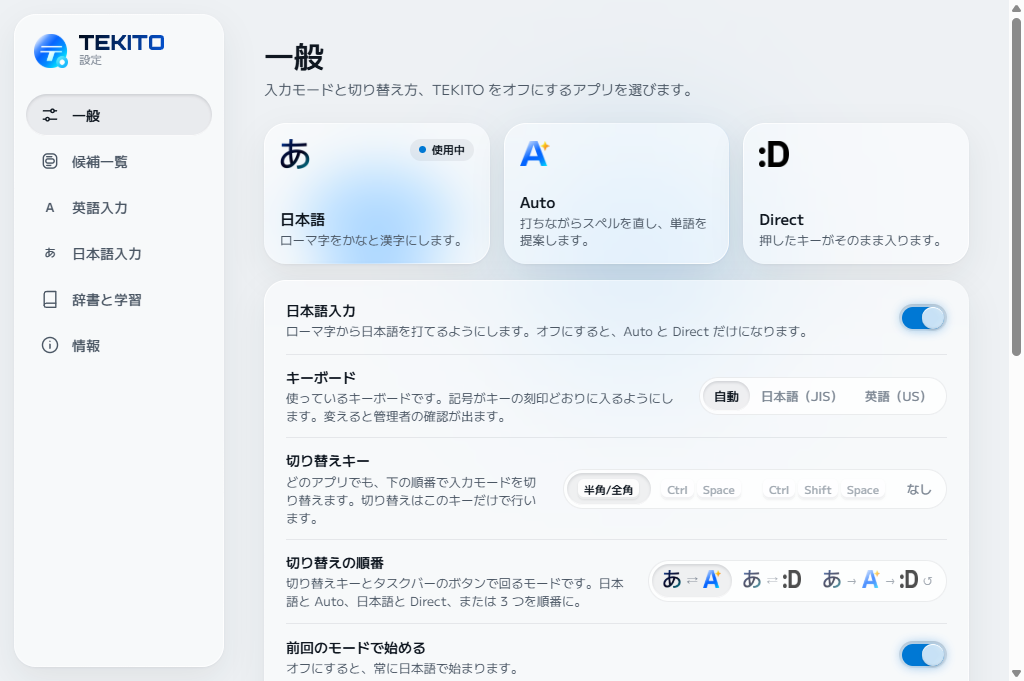
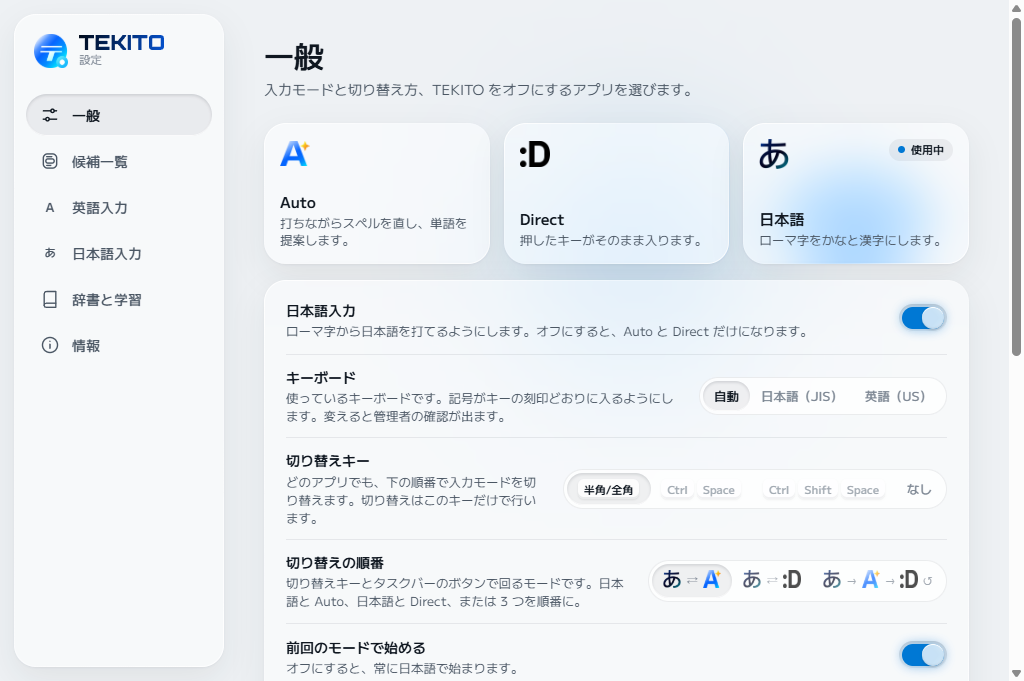
Put English first: TEKITO is English input with Japanese added
TEKITO began as English input and Japanese is the addition, so the
descriptions now say "English and Japanese" and list English first: the
README taglines and sections (typing English, then Japanese, with the
English demo at the top), the Settings About tagline, the setup program's
welcome page, and the order of the modes in Settings and the taskbar menu
(Auto, Direct, then 日本語). The Settings shots are taken again.

The license agreement's scope and privacy lines now name the Japanese
data the setup program downloads and Japanese conversion.

verify-installed.ps1 accepted TEKITO only in the English keyboard list and
failed packs without an index file, so a Japanese installation always
looked broken. It now accepts either list, checks packs without an index,
and requires japanese-core and japanese-romaji when Japanese is installed.

diff --git a/apps/tekito-settings/ui/src/i18n.js b/apps/tekito-settings/ui/src/i18n.js
@@ -188,7 +188,7 @@ const en = {
   },
 
   about: {
-    tagline: "Japanese and English input for Windows.",
+    tagline: "English and Japanese input for Windows.",
     version: "Version",
     inputMethod: "Input method",
     installed: "Installed and registered with Windows.",
@@ -398,7 +398,7 @@ const ja = {
   },
 
   about: {
-    tagline: "Windows で日本語と英語を打つための入力方式。",
+    tagline: "Windows で英語と日本語を打つための入力方式。",
     version: "バージョン",
     inputMethod: "入力方式",
     installed: "インストールされ、Windows に登録されています。",

diff --git a/apps/tekito-settings/ui/src/main.jsx b/apps/tekito-settings/ui/src/main.jsx
@@ -321,7 +321,7 @@ function GeneralPage({ mode, japanese, japaneseInstalled, japaneseKeyboard, sett
   const languages = [[0, t.language.system], [1, "English"], [2, "日本語"]];
   const keyboards = [[0, t.keyboard.detect], [1, t.keyboard.japanese], [2, t.keyboard.us]];
   // Japanese is a mode only when it is installed.
-  const modes = japanese ? ["japanese", "auto", "direct"] : ["auto", "direct"];
+  const modes = japanese ? ["auto", "direct", "japanese"] : ["auto", "direct"];
   const switchKey = switchKeyCaps(settings.toggleKey, japaneseKeyboard);
   return (
     <>

diff --git a/src/Tsf/ModeLangBarItem.cpp b/src/Tsf/ModeLangBarItem.cpp
@@ -122,11 +122,11 @@ void ModeLangBarItem::ShowContextMenu(POINT point) {
     const auto flags = [this](InputMode mode) {
         return MF_STRING | (Mode() == mode ? MF_CHECKED : 0);
     };
+    AppendMenuW(menu, flags(InputMode::Convert), kMenuAuto, L"Auto");
+    AppendMenuW(menu, flags(InputMode::Direct), kMenuDirect, L"Direct");
     if (JapaneseProfile()) {
         AppendMenuW(menu, flags(InputMode::Japanese), kMenuJapanese, Text(L"Japanese", L"日本語"));
     }
-    AppendMenuW(menu, flags(InputMode::Convert), kMenuAuto, L"Auto");
-    AppendMenuW(menu, flags(InputMode::Direct), kMenuDirect, L"Direct");
     AppendMenuW(menu, MF_SEPARATOR, 0, nullptr);
     AppendMenuW(menu, MF_STRING, kMenuSettings, Text(L"Settings...", L"設定..."));
 
@@ -148,15 +148,14 @@ HRESULT ModeLangBarItem::InitMenu(ITfMenu* menu) {
     const auto checked = [mode](InputMode item) {
         return mode == item ? static_cast<DWORD>(TF_LBMENUF_RADIOCHECKED) : 0;
     };
-    HRESULT hr = S_OK;
+    HRESULT hr = addItem(kMenuAuto, checked(InputMode::Convert), L"Auto");
+    if (FAILED(hr)) return hr;
+    hr = addItem(kMenuDirect, checked(InputMode::Direct), L"Direct");
+    if (FAILED(hr)) return hr;
     if (JapaneseProfile()) {
         hr = addItem(kMenuJapanese, checked(InputMode::Japanese), Text(L"Japanese", L"日本語"));
         if (FAILED(hr)) return hr;
     }
-    hr = addItem(kMenuAuto, checked(InputMode::Convert), L"Auto");
-    if (FAILED(hr)) return hr;
-    hr = addItem(kMenuDirect, checked(InputMode::Direct), L"Direct");
-    if (FAILED(hr)) return hr;
     hr = addItem(0, TF_LBMENUF_SEPARATOR, nullptr);
     if (FAILED(hr)) return hr;
     return addItem(kMenuSettings, 0, Text(L"Settings...", L"設定..."));

diff --git a/installer/TekitoSetup.cpp b/installer/TekitoSetup.cpp
@@ -920,12 +920,12 @@ void Paint(Wizard& wizard) {
     case Screen::Welcome:
         DrawLogo(wizard, kMargin, 42.0f, 60.0f);
         DrawWordmark(wizard, kMargin + 78.0f, 58.0f);
-        DrawText(wizard, Tr(L"Japanese and English input for Windows", L"日本語と英語を打つための入力方式"), wizard.title.Get(),
+        DrawText(wizard, Tr(L"English and Japanese input for Windows", L"英語と日本語を打つための入力方式"), wizard.title.Get(),
                  D2D1::RectF(kMargin, 128.0f, kWidth - kMargin, 164.0f), p.ink);
         DrawText(wizard,
-                 Tr(L"TEKITO turns romaji into Japanese and fixes English typos as you type. Everything runs on "
+                 Tr(L"TEKITO fixes English typos as you type, and turns romaji into Japanese. Everything runs on "
                     L"this PC, and nothing you type is ever sent anywhere.",
-                    L"TEKITO はローマ字を日本語にし、英語の打ち間違いを直します。処理はすべてこの PC の中で行われ、"
+                    L"TEKITO は英語の打ち間違いを直し、ローマ字を日本語にします。処理はすべてこの PC の中で行われ、"
                     L"入力した内容がどこかに送られることはありません。"),
                  wizard.body.Get(), D2D1::RectF(kMargin, 170.0f, kMargin + bodyWidth, 214.0f), p.ink2);
         if (wizard.webViewReady) {

diff --git a/README_JP.md b/README_JP.md
@@ -6,8 +6,8 @@
 </p>
 
 <p align="center">
-  Windows で日本語と英語を打つための入力方式。<br>
-  ローマ字は文全体を見て日本語に、英語の打ち間違いは Space で直ります。<br>
+  Windows で英語と日本語を打つための入力方式。<br>
+  英語の打ち間違いは Space で直り、ローマ字は文全体を見て日本語になります。<br>
   打ったとおりでいいときは何もしません。
 </p>
 
@@ -19,10 +19,10 @@
 </p>
 
 <p align="center">
-  <img src="docs/images/japanese-demo-ja.png" alt="「はじめまして」のつもりで「hahimemasite」と打ち間違えた例。Space で打ったとおりに変換され、もう一度 Space を押すと候補に「もしかして」付きで「はじめまして」が出て、横に意味が表示される。続けて「kyouhaiitenkidesune.」が「今日はいい天気ですね。」になる" width="580">
+  <img src="docs/images/typing-demo-ja.png" alt="「thnaks for teh reveiw.」と打つと、単語ごとに候補リストが出て、Space で打ち間違いが直り、「thanks for the review.」になる様子" width="717">
 </p>
 
-TEKITO は IME（TSF のテキストサービス）なので、普通の Windows アプリでそのまま使えます。ひとつの入力方式で日本語と英語の両方を打てます。ローマ字はかなと漢字に、英語は打ちながらスペルを直します。処理はすべて PC の中で完結します。
+TEKITO は IME（TSF のテキストサービス）なので、普通の Windows アプリでそのまま使えます。ひとつの入力方式で英語と日本語の両方を打てます。英語は打ちながらスペルを直し、日本語を追加すればローマ字をかなと漢字にします。処理はすべて PC の中で完結します。
 
 > TEKITO はプレビュー版です。動作を確認しているのはメモ帳のみです。ほかのアプリの状況は[互換性メモ](docs/compatibility.md)にあります。
 
@@ -31,16 +31,6 @@ TEKITO は IME（TSF のテキストサービス）なので、普通の Windows
 タスクバーのボタンが今のモードを表しています。クリックで切り替え、右クリックでモードを選べます。
 
 <table>
-  <tr>
-    <td width="72" align="center">
-      <picture>
-        <source media="(prefers-color-scheme: dark)" srcset="docs/images/mode-japanese-dark.png">
-        <img src="docs/images/mode-japanese-light.png" width="48" alt="">
-      </picture>
-    </td>
-    <td><b>日本語</b><br>ローマ字をかなと漢字にします。</td>
-    <td><img src="docs/images/taskbar-japanese.png" width="216" alt="日本語のときのタスクバー"></td>
-  </tr>
   <tr>
     <td align="center"><img src="docs/images/mode-auto.png" width="48" alt=""></td>
     <td><b>Auto</b><br>英語のスペルを直し、打ちながら単語を提案します。</td>
@@ -56,15 +46,46 @@ TEKITO は IME（TSF のテキストサービス）なので、普通の Windows
     <td><b>Direct</b><br>押したキーがそのまま入ります。</td>
     <td><img src="docs/images/taskbar-direct.png" width="216" alt="Direct のときのタスクバー"></td>
   </tr>
+  <tr>
+    <td width="72" align="center">
+      <picture>
+        <source media="(prefers-color-scheme: dark)" srcset="docs/images/mode-japanese-dark.png">
+        <img src="docs/images/mode-japanese-light.png" width="48" alt="">
+      </picture>
+    </td>
+    <td><b>日本語</b><br>ローマ字をかなと漢字にします。</td>
+    <td><img src="docs/images/taskbar-japanese.png" width="216" alt="日本語のときのタスクバー"></td>
+  </tr>
 </table>
 
-切り替えキーは、日本語キーボードなら半角/全角、US キーボードなら Alt+` です（Ctrl+Space、Ctrl+Shift+Space、なしも選べます）。切り替えの順番は「日本語 ⇄ Auto」「日本語 ⇄ Direct」「日本語 → Auto → Direct」から設定で選べます。日本語キーボードでは、変換キーで日本語、無変換キーで英語、ひらがなキーでひらがなの日本語（Shift でカタカナ）になります。
+切り替えキーは、日本語キーボードなら半角/全角、US キーボードなら Alt+` です（Ctrl+Space、Ctrl+Shift+Space、なしも選べます）。日本語を追加すると、切り替えの順番を「日本語 ⇄ Auto」「日本語 ⇄ Direct」「日本語 → Auto → Direct」から設定で選べます。日本語キーボードでは、変換キーで日本語、無変換キーで英語、ひらがなキーでひらがなの日本語（Shift でカタカナ）になります。
 
 日本語入力は追加するかどうかを選べます。入れていないとき、または設定でオフにしたときは、Auto と Direct だけになります。ターミナル、管理者として実行中のアプリ、設定で追加したアプリでは、TEKITO はオフになります。
 
+## 英語を打つ
+
+Auto で普段どおりに打ちます。入力中の単語に下線が付き、その下に候補が出ます。
+
+| キー | 動作 |
+| --- | --- |
+| Space | 確信のある補正を適用してスペースを入れます。続けて押すと候補を順に送ります。 |
+| Shift+Space | ひとつ前の候補に戻ります。 |
+| Tab、↑、↓ | 確定せずに候補を移動します。 |
+| Backspace | 補正の直後なら、打ったとおりに戻します。 |
+| Esc | 打ったとおりにします。 |
+| Enter | 候補を選んでいるときはその候補で確定します。それ以外は普通の改行です。 |
+
+次の文字を打った時点で単語は確定するので、あとから取り消す操作はありません。知っている単語、「brb」のようなチャットの略語、自分で大文字にして打った語、コードらしい文字列、URL やアドレス、パスワード・数字・メール用の欄には手を出しません。
+
+![TEKITO の候補リスト。グラスとシンプル、ライトとダーク。選んでいる語の意味が横に出る](docs/images/candidate-list-ja.png)
+
 ## 日本語を打つ
 
-ローマ字で打つと、下線付きのひらがなになります。Space で行全体を一度に変換して文節に分け、もう一度 Space を押すと、選んでいる文節の候補一覧が開きます。
+日本語を追加すると、日本語モードでローマ字を打てます。打つと、下線付きのひらがなになります。Space で行全体を一度に変換して文節に分け、もう一度 Space を押すと、選んでいる文節の候補一覧が開きます。
+
+<p align="center">
+  <img src="docs/images/japanese-demo-ja.png" alt="「はじめまして」のつもりで「hahimemasite」と打ち間違えた例。Space で打ったとおりに変換され、もう一度 Space を押すと候補に「もしかして」付きで「はじめまして」が出て、横に意味が表示される。続けて「kyouhaiitenkidesune.」が「今日はいい天気ですね。」になる" width="580">
+</p>
 
 | キー | 動作 |
 | --- | --- |
@@ -84,27 +105,6 @@ TEKITO は IME（TSF のテキストサービス）なので、普通の Windows
 - **候補の横に意味。** 意味のある候補には小さな本のマークが付き、選んでいる候補の意味が一覧の横に出ます。「初め」と「始め」の違いもその場でわかります。
 - **カタカナには英語も。** 外来語には英単語も候補に出します（ミーティング → meeting）。
 - **書き方を覚えます。** 読みに対して選んだ変換が、次から先に出ます。
-
-## 英語を打つ
-
-Auto で普段どおりに打ちます。入力中の単語に下線が付き、その下に候補が出ます。
-
-<p align="center">
-  <img src="docs/images/typing-demo-ja.png" alt="「thnaks for teh reveiw.」と打つと、単語ごとに候補リストが出て、Space で打ち間違いが直り、「thanks for the review.」になる様子" width="717">
-</p>
-
-| キー | 動作 |
-| --- | --- |
-| Space | 確信のある補正を適用してスペースを入れます。続けて押すと候補を順に送ります。 |
-| Shift+Space | ひとつ前の候補に戻ります。 |
-| Tab、↑、↓ | 確定せずに候補を移動します。 |
-| Backspace | 補正の直後なら、打ったとおりに戻します。 |
-| Esc | 打ったとおりにします。 |
-| Enter | 候補を選んでいるときはその候補で確定します。それ以外は普通の改行です。 |
-
-次の文字を打った時点で単語は確定するので、あとから取り消す操作はありません。知っている単語、「brb」のようなチャットの略語、自分で大文字にして打った語、コードらしい文字列、URL やアドレス、パスワード・数字・メール用の欄には手を出しません。
-
-![TEKITO の候補リスト。グラスとシンプル、ライトとダーク。選んでいる語の意味が横に出る](docs/images/candidate-list-ja.png)
 
 ## 設定
 

diff --git a/README.md b/README.md
@@ -6,8 +6,8 @@
 </p>
 
 <p align="center">
-  Japanese and English input for Windows.<br>
-  Romaji into Japanese that reads the whole sentence, English typos fixed on Space,<br>
+  English and Japanese input for Windows.<br>
+  English typos fixed on Space, romaji into Japanese that reads the whole sentence,<br>
   and nothing touched when you meant what you typed.
 </p>
 
@@ -19,13 +19,13 @@
 </p>
 
 <p align="center">
-  <img src="docs/images/japanese-demo.png" alt="Typing “hahimemasite”, a slip for はじめまして: Space converts what was typed, the second Space opens the list, where はじめまして waits marked もしかして with its meaning beside it; then “kyouhaiitenkidesune.” becomes 今日はいい天気ですね。" width="559">
+  <img src="docs/images/typing-demo.png" alt="Typing “thnaks for teh reveiw.” in a plain page: the candidate list appears under each word, Space fixes the typos, and the line ends up as “thanks for the review.”" width="717">
 </p>
 
 TEKITO is an input method (a TSF text service), so it works in ordinary
-Windows apps without plugins. One input method types both languages: romaji
-becomes kana and kanji, and English gets its spelling fixed as you go.
-Everything runs on your PC.
+Windows apps without plugins. One input method types both languages: English
+gets its spelling fixed as you go, and with Japanese added, romaji becomes
+kana and kanji. Everything runs on your PC.
 
 > TEKITO is a preview. It has been tested in Notepad; other apps are listed in
 > [the compatibility notes](docs/compatibility.md).
@@ -36,16 +36,6 @@ The button in the taskbar shows the mode. Click it to switch, or right-click
 to pick one.
 
 <table>
-  <tr>
-    <td width="72" align="center">
-      <picture>
-        <source media="(prefers-color-scheme: dark)" srcset="docs/images/mode-japanese-dark.png">
-        <img src="docs/images/mode-japanese-light.png" width="48" alt="">
-      </picture>
-    </td>
-    <td><b>日本語</b><br>Turns romaji into kana and kanji.</td>
-    <td><img src="docs/images/taskbar-japanese.png" width="216" alt="The taskbar with TEKITO in Japanese"></td>
-  </tr>
   <tr>
     <td align="center"><img src="docs/images/mode-auto.png" width="48" alt=""></td>
     <td><b>Auto</b><br>Corrects English spelling and suggests words as you type.</td>
@@ -61,11 +51,22 @@ to pick one.
     <td><b>Direct</b><br>Types exactly the keys you press.</td>
     <td><img src="docs/images/taskbar-direct.png" width="216" alt="The taskbar with TEKITO in Direct"></td>
   </tr>
+  <tr>
+    <td width="72" align="center">
+      <picture>
+        <source media="(prefers-color-scheme: dark)" srcset="docs/images/mode-japanese-dark.png">
+        <img src="docs/images/mode-japanese-light.png" width="48" alt="">
+      </picture>
+    </td>
+    <td><b>日本語</b><br>Turns romaji into kana and kanji.</td>
+    <td><img src="docs/images/taskbar-japanese.png" width="216" alt="The taskbar with TEKITO in Japanese"></td>
+  </tr>
 </table>
 
 The switch key is Hankaku/Zenkaku on a Japanese keyboard and Alt+` on a US
-one (or Ctrl+Space, Ctrl+Shift+Space, or none). It goes between Japanese and
-Auto, Japanese and Direct, or round all three, as you choose in Settings. On
+one (or Ctrl+Space, Ctrl+Shift+Space, or none). With Japanese, it goes
+between Japanese and Auto, Japanese and Direct, or round all three, as you
+choose in Settings. On
 a Japanese keyboard, Henkan switches to Japanese, Muhenkan to English, and
 Hiragana to Japanese in hiragana (katakana with Shift).
 
@@ -73,11 +74,37 @@ Japanese input is optional. Without it, or with it turned off in Settings,
 TEKITO has Auto and Direct only. It stays off in terminals, in apps running
 as administrator, and in any apps you list in Settings.
 
+## Typing English
+
+In Auto, type as usual. The word you are typing is underlined and a short
+list of choices appears under it.
+
+| Key | What it does |
+| --- | --- |
+| Space | Applies a confident correction and adds the space. Press again to step through the choices. |
+| Shift+Space | Goes back to the previous choice. |
+| Tab, ↑, ↓ | Moves through the list without committing. |
+| Backspace | Right after a correction, puts back what you typed. |
+| Esc | Keeps what you typed. |
+| Enter | Picks the highlighted choice when you are in the list; otherwise ends the line as usual. |
+
+Typing the next letter settles the word, so there is nothing to undo later.
+TEKITO leaves alone words it recognizes, chat abbreviations like “brb”,
+anything you capitalize yourself, anything that looks like code, URLs and
+addresses, and fields marked as passwords, numbers or email.
+
+![The TEKITO candidate list, glass and simple, in light and dark, with the meaning of the highlighted word beside it](docs/images/candidate-list.png)
+
 ## Typing Japanese
 
-Type romaji; it becomes hiragana as you type, underlined. Space converts the
+With Japanese added, type romaji in 日本語; it becomes hiragana as you
+type, underlined. Space converts the
 whole line at once, split into phrases, and a second Space opens the list
 for the phrase in focus.
+
+<p align="center">
+  <img src="docs/images/japanese-demo.png" alt="Typing “hahimemasite”, a slip for はじめまして: Space converts what was typed, the second Space opens the list, where はじめまして waits marked もしかして with its meaning beside it; then “kyouhaiitenkidesune.” becomes 今日はいい天気ですね。" width="559">
+</p>
 
 | Key | What it does |
 | --- | --- |
@@ -107,31 +134,6 @@ for the phrase in focus.
   (ミーティング → meeting).
 - **It learns your way of writing.** The conversion you pick for a reading
   comes first the next time.
-
-## Typing English
-
-In Auto, type as usual. The word you are typing is underlined and a short
-list of choices appears under it.
-
-<p align="center">
-  <img src="docs/images/typing-demo.png" alt="Typing “thnaks for teh reveiw.” in a plain page: the candidate list appears under each word, Space fixes the typos, and the line ends up as “thanks for the review.”" width="717">
-</p>
-
-| Key | What it does |
-| --- | --- |
-| Space | Applies a confident correction and adds the space. Press again to step through the choices. |
-| Shift+Space | Goes back to the previous choice. |
-| Tab, ↑, ↓ | Moves through the list without committing. |
-| Backspace | Right after a correction, puts back what you typed. |
-| Esc | Keeps what you typed. |
-| Enter | Picks the highlighted choice when you are in the list; otherwise ends the line as usual. |
-
-Typing the next letter settles the word, so there is nothing to undo later.
-TEKITO leaves alone words it recognizes, chat abbreviations like “brb”,
-anything you capitalize yourself, anything that looks like code, URLs and
-addresses, and fields marked as passwords, numbers or email.
-
-![The TEKITO candidate list, glass and simple, in light and dark, with the meaning of the highlighted word beside it](docs/images/candidate-list.png)
 
 ## Settings
 

diff --git a/installer/TEKITO_LICENSE.md b/installer/TEKITO_LICENSE.md
@@ -2,14 +2,14 @@
 
 Version 0.1 (preview) · Effective September 26, 2026
 
-This agreement is between you and Capitata (capitata.dev), which makes and distributes TEKITO. It covers TEKITO for Windows: the input method, TEKITO Settings, the setup program, the language data that comes with them, their documentation, and updates we provide for this version. By installing or using TEKITO you accept this agreement. If you do not accept it, do not install or use TEKITO.
+This agreement is between you and Capitata (capitata.dev), which makes and distributes TEKITO. It covers TEKITO for Windows: the input method, TEKITO Settings, the setup program, the language data that comes with them (including the Japanese data the setup program downloads), their documentation, and updates we provide for this version. By installing or using TEKITO you accept this agreement. If you do not accept it, do not install or use TEKITO.
 
 ## In short
 
 - You may install TEKITO on the computers you use and use it for anything, including work.
 - What you type is yours. TEKITO works on your PC and does not send your typing anywhere.
 - TEKITO is ours. Please do not resell it, redistribute it, or pass off modified copies as TEKITO.
-- Suggestions and corrections can be wrong. Check your text before you rely on it.
+- Suggestions, corrections, and conversions can be wrong. Check your text before you rely on it.
 - TEKITO is provided as is, and this is a preview release.
 
 The full terms below are what apply; this summary is only a guide.
@@ -37,7 +37,7 @@ The TEKITO source code is published separately under the Functional Source Licen
 
 You own the text you type and anything you create with TEKITO, including your dictionary entries and settings.
 
-TEKITO processes your typing on your computer to correct and suggest words. It stores your settings, your dictionary, and what it learns from your choices on your computer. It does not send your typing, your dictionary, or what it has learned over the network. Diagnostics you copy from TEKITO Settings never include what you type. You can clear learned data and remove your dictionary entries in TEKITO Settings at any time.
+TEKITO processes your typing on your computer to correct and suggest words and to convert romaji into Japanese. It stores your settings, your dictionary, and what it learns from your choices on your computer. It does not send your typing, your dictionary, or what it has learned over the network. Diagnostics you copy from TEKITO Settings never include what you type. You can clear learned data and remove your dictionary entries in TEKITO Settings at any time.
 
 Keep your own copy of anything you would not want to lose, such as an exported dictionary. Uninstalling TEKITO leaves your data in place unless you choose to remove it.
 
